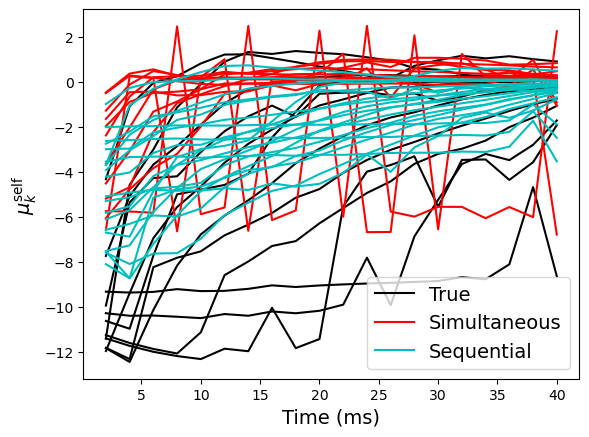
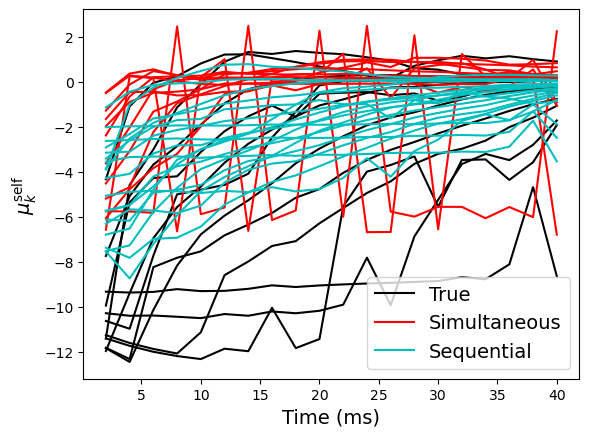
problem with l2 range

Changed region(s): [[0.1528, 0.119, 0.9474, 0.6247]]

diff --git a/reviewer_figmaker.py b/reviewer_figmaker.py
@@ -8,7 +8,7 @@ from helpers import *
 
 os.chdir('files')
 savepath = '../figs/'
-run=False
+run=True
 
 D = np.load('../ivscc_data_n12.npz',allow_pickle=True)
 all_spks = D['binned_spikes']
@@ -41,7 +41,7 @@ Kfits = np.arange(1,21)
 l2s = np.logspace(-7,-1,13)
 
 share = 'W'
-trials = 20
+trials = 18
 
 simulBICs = np.load('../summary_files/BIC_allN_share='+share+'.npz')['simulBICs']
 K_max=Kfits[np.argmax(np.max(simulBICs,axis=1))]
@@ -69,10 +69,11 @@ if run:
                         simul_bics[Ki,trial] = D['BIC']
                         max_BIC=D['BIC']
                         if Kfit==K_max:
-                            simul_D = {k:D[k] for k in ['ars','Ws','Fs','bs','mu_k','C_k','wts']}
+                            simul_D = {k:D[k] for k in ['ars','Ws','Fs','bs','mu_k','C_k','wts','l2']}
                 except Exception as e:
                     if True:
                         print(fname,e)
+    print(simul_D['l2'])
     simul_D['BICs'] = simul_bics
     np.savez('../summary_files/ivscc_sims_share'+share,simul_D=simul_D)
 D = np.load('../summary_files/ivscc_sims_share'+share+'.npz',allow_pickle=True)
@@ -94,6 +95,7 @@ if run:
     l2_stim_i = np.argmin(np.min(errors[:,:,0],axis=1))
     l2_self_i = np.argmin(np.min(errors[:,:,1],axis=0))
     fname = 'sim_frivsccsimul_seq_l2stimi='+str(l2_stim_i)+'_l2selfi='+str(l2_self_i)+'_share='+share
+    print(l2_stim_i,l2_self_i)
     D = np.load(fname+'.npz',allow_pickle=True)
     if share=='W':
         betas = D['Ws']
